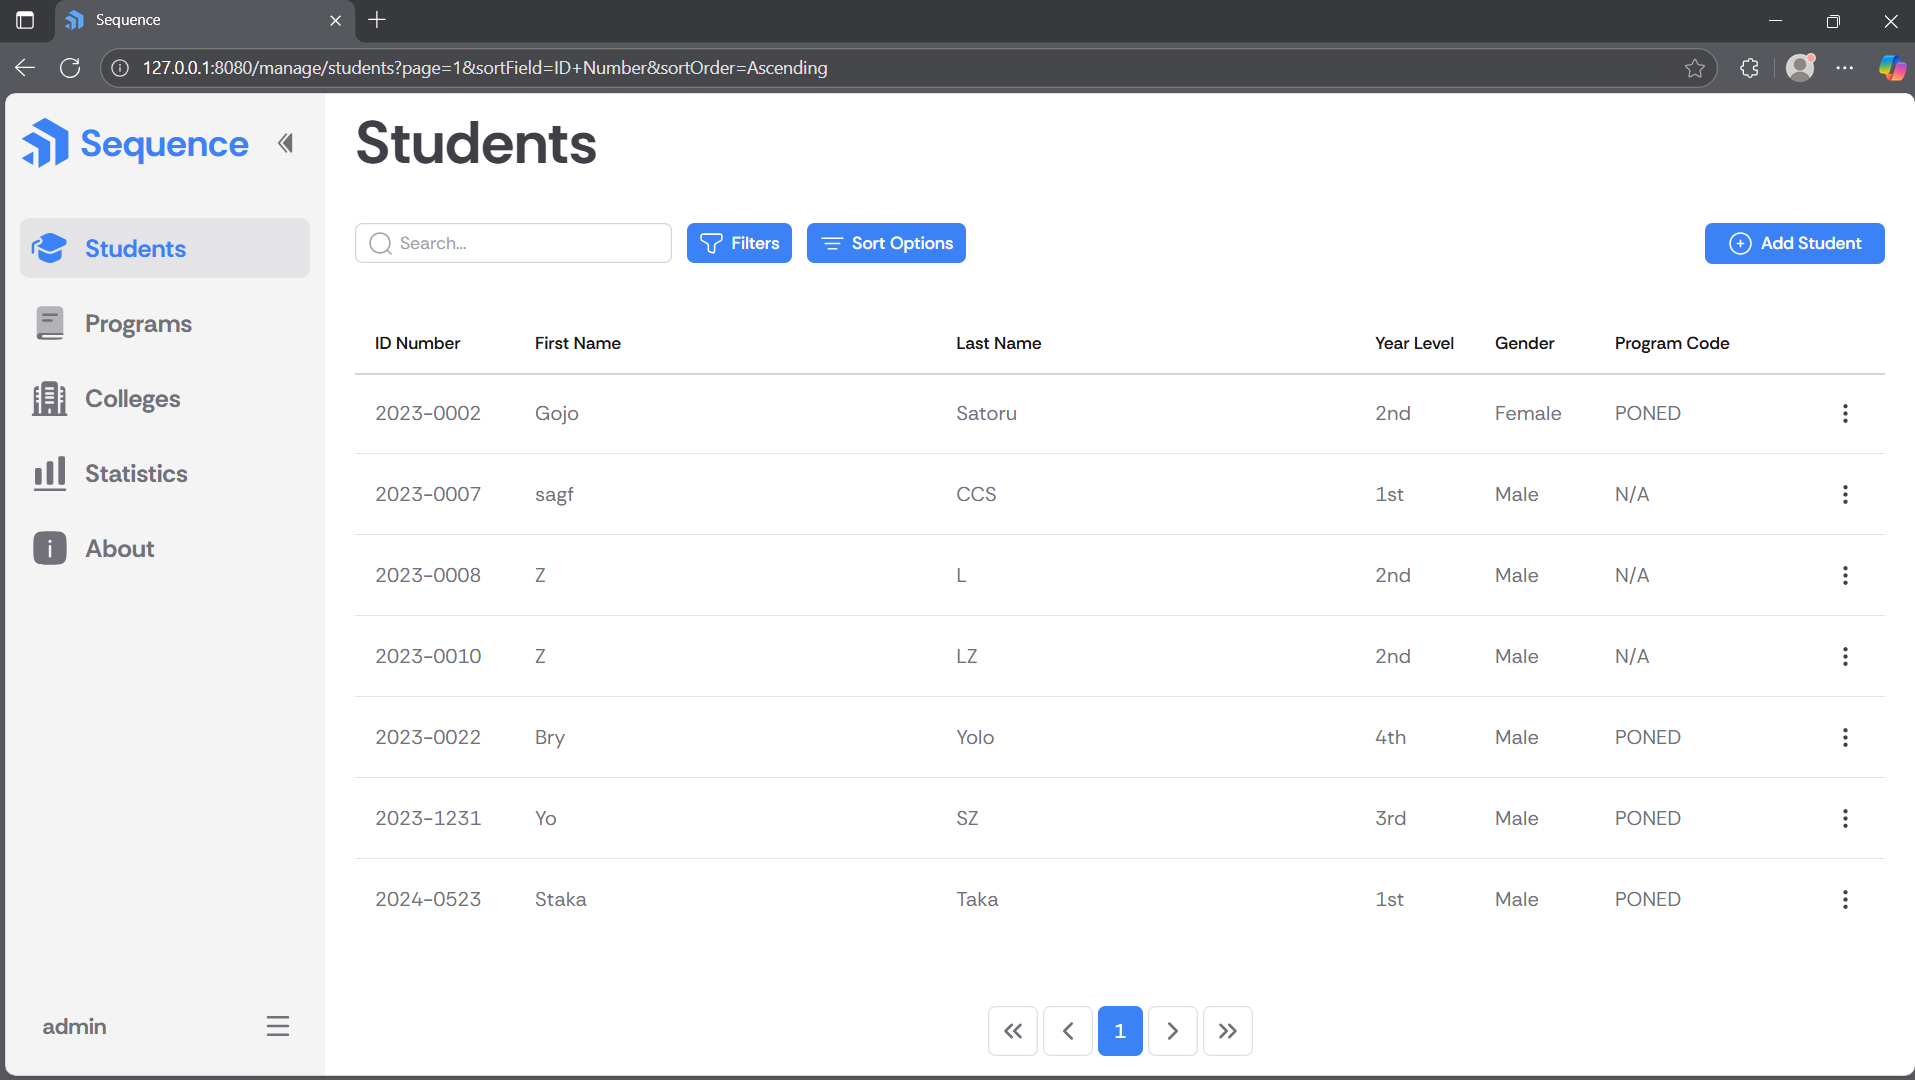
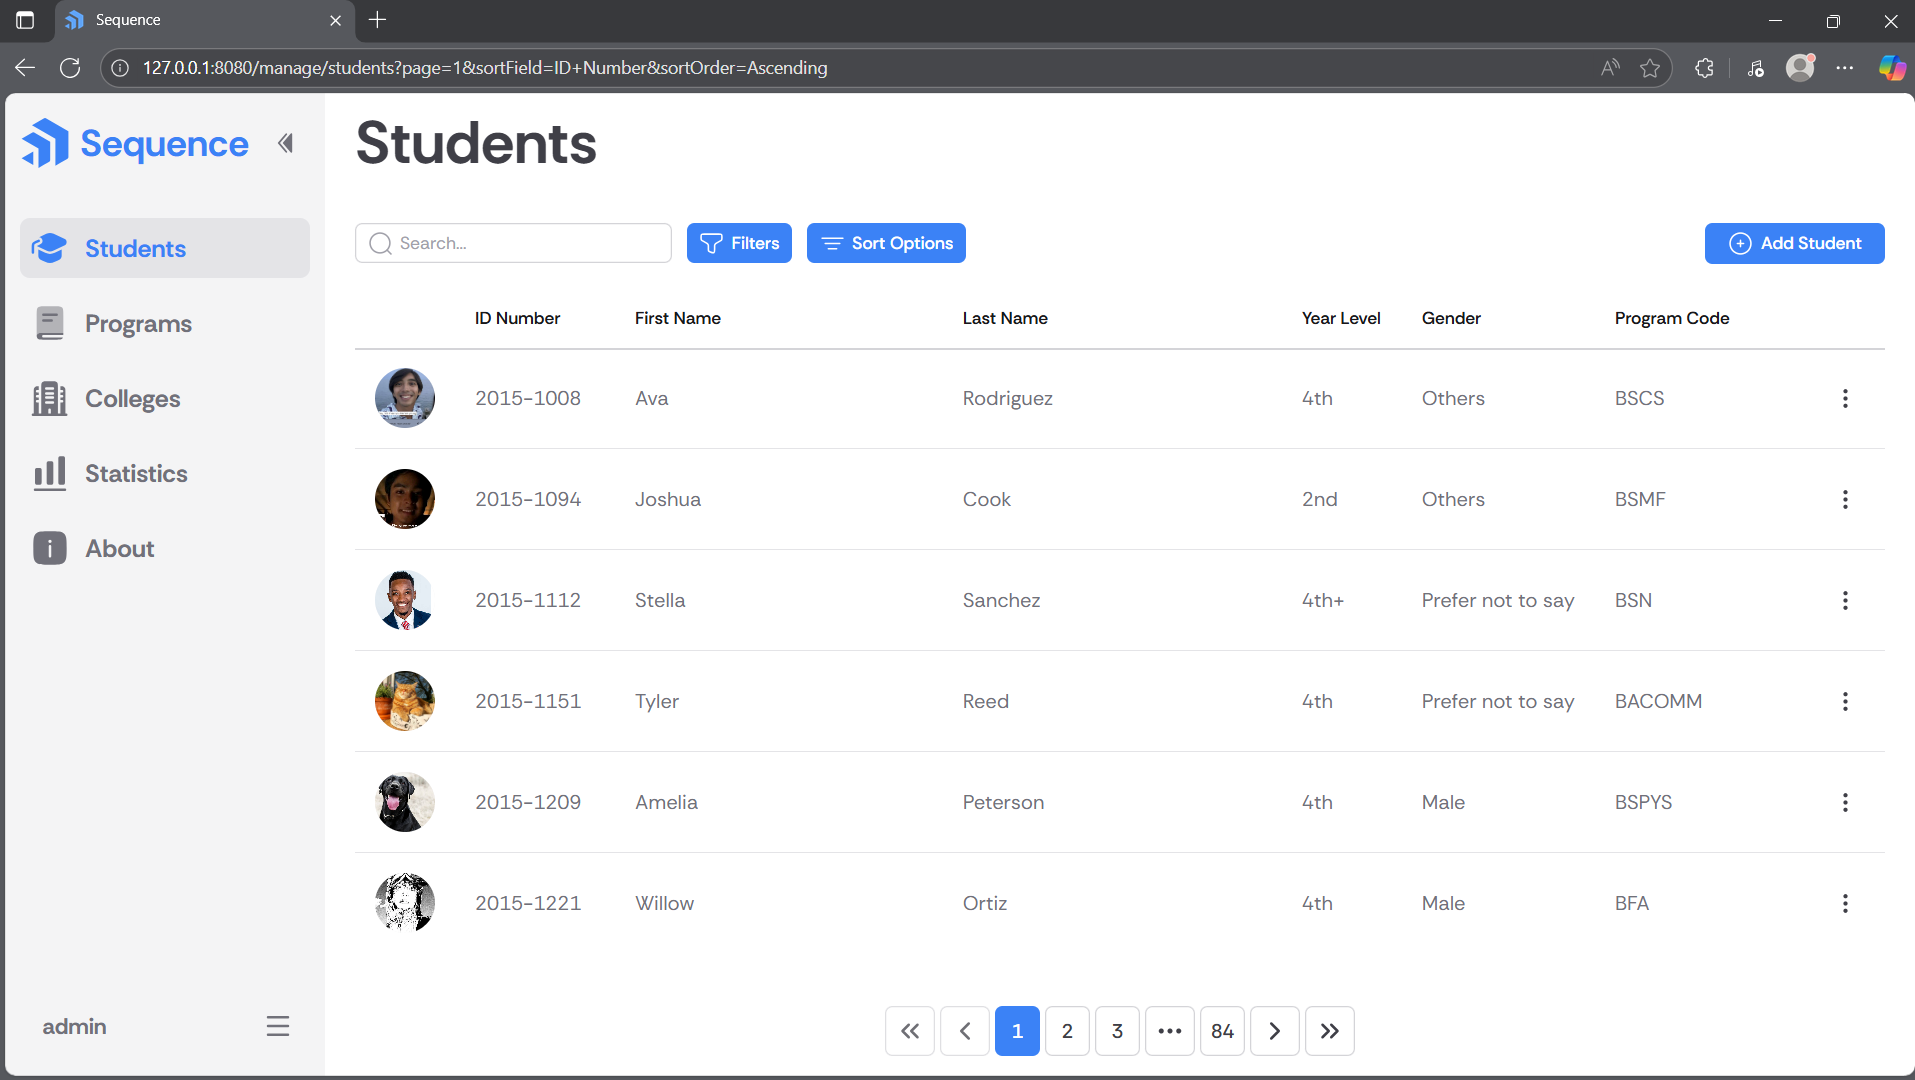
docs: update README.md

diff --git a/README.md b/README.md
@@ -1,6 +1,6 @@
 # Sequence, a full-stack simple student information system (SSIS)
 
-Sequence is a full-stack simple student information system (SSIS) built using Nuxt (Vue 3), Flask (Python), and PostgreSQL. It is made in accordance with the requirements of CCC181. 
+Sequence is a full-stack simple student information system (SSIS) built using Nuxt (Vue 3), Flask (Python), PostgreSQL, and Supabase Storage. It is made in accordance with the requirements of CCC181. 
 
 The name 'Sequence' comes from the fact that the data in this application is stored in a particular order, hence, a sequence.
 
@@ -12,8 +12,9 @@ Built with Nuxt 3 (Vue 3) for a fast, reactive single-page application. Styled u
 ### Backend
 Powered by Flask (Python 3.10+) to provide a RESTful API layer. Pipenv is used to manage dependencies and environments.
 
-### Database
-Data is stored in PostgreSQL, fully containerized using Docker for consistency across environments. pgAdmin is included for graphical database management.
+### Database & Storage
+- PostgreSQL: Stores structured application data, fully containerized using Docker. pgAdmin included for graphical database management.
+- Supabase Storage: Used to store user-uploaded images for student avatars, providing secure and scalable object storage.
 
 ### DevOps
 The application uses Docker to orchestrate containers and ensure reproducible development setups.
@@ -33,10 +34,11 @@ The application uses Docker to orchestrate containers and ensure reproducible de
 - Flask
 - Pipenv
 
-### Database
+### Database & Storage
 - Docker (for containerized PostgreSQL and pgAdmin)
 - PostgreSQL
 - pgAdmin
+- Supabase Bucket (to store user-uploaded images for student avatars)
 
 ## Features
 
@@ -51,6 +53,7 @@ The application uses Docker to orchestrate containers and ensure reproducible de
 - JWT-based user authentication (access + refresh tokens stored in cookies)
 - Single Page Application (SPA) for seamless user experience
 - Theme customization, with support for many colors, and light/dark mode
+- Students can have avatars; supports image upload, update, deletion, and storage using Supabase Storage
 
 ## Screenshots
 
@@ -58,6 +61,7 @@ The application uses Docker to orchestrate containers and ensure reproducible de
 |------|----------|
 | Login Page | ![Login Page Screenshot](assets/screenshots/login_page_screenshot.png) |
 | Manage Students Page | ![Manage Students Page Screenshot](assets/screenshots/manage_students_page.png) |
+| Manage Programs Page | ![Manage Students Page Screenshot](assets/screenshots/manage_programs_page.png) |
 | Statistics Page | ![Statistics Page Screenshot](assets/screenshots/statistics_page.png) |
 | About Page | ![About Page Screenshot](assets/screenshots/about_page.png) |
 | Light Mode | ![Light Mode Screenshot](assets/screenshots/light_mode.png) |
